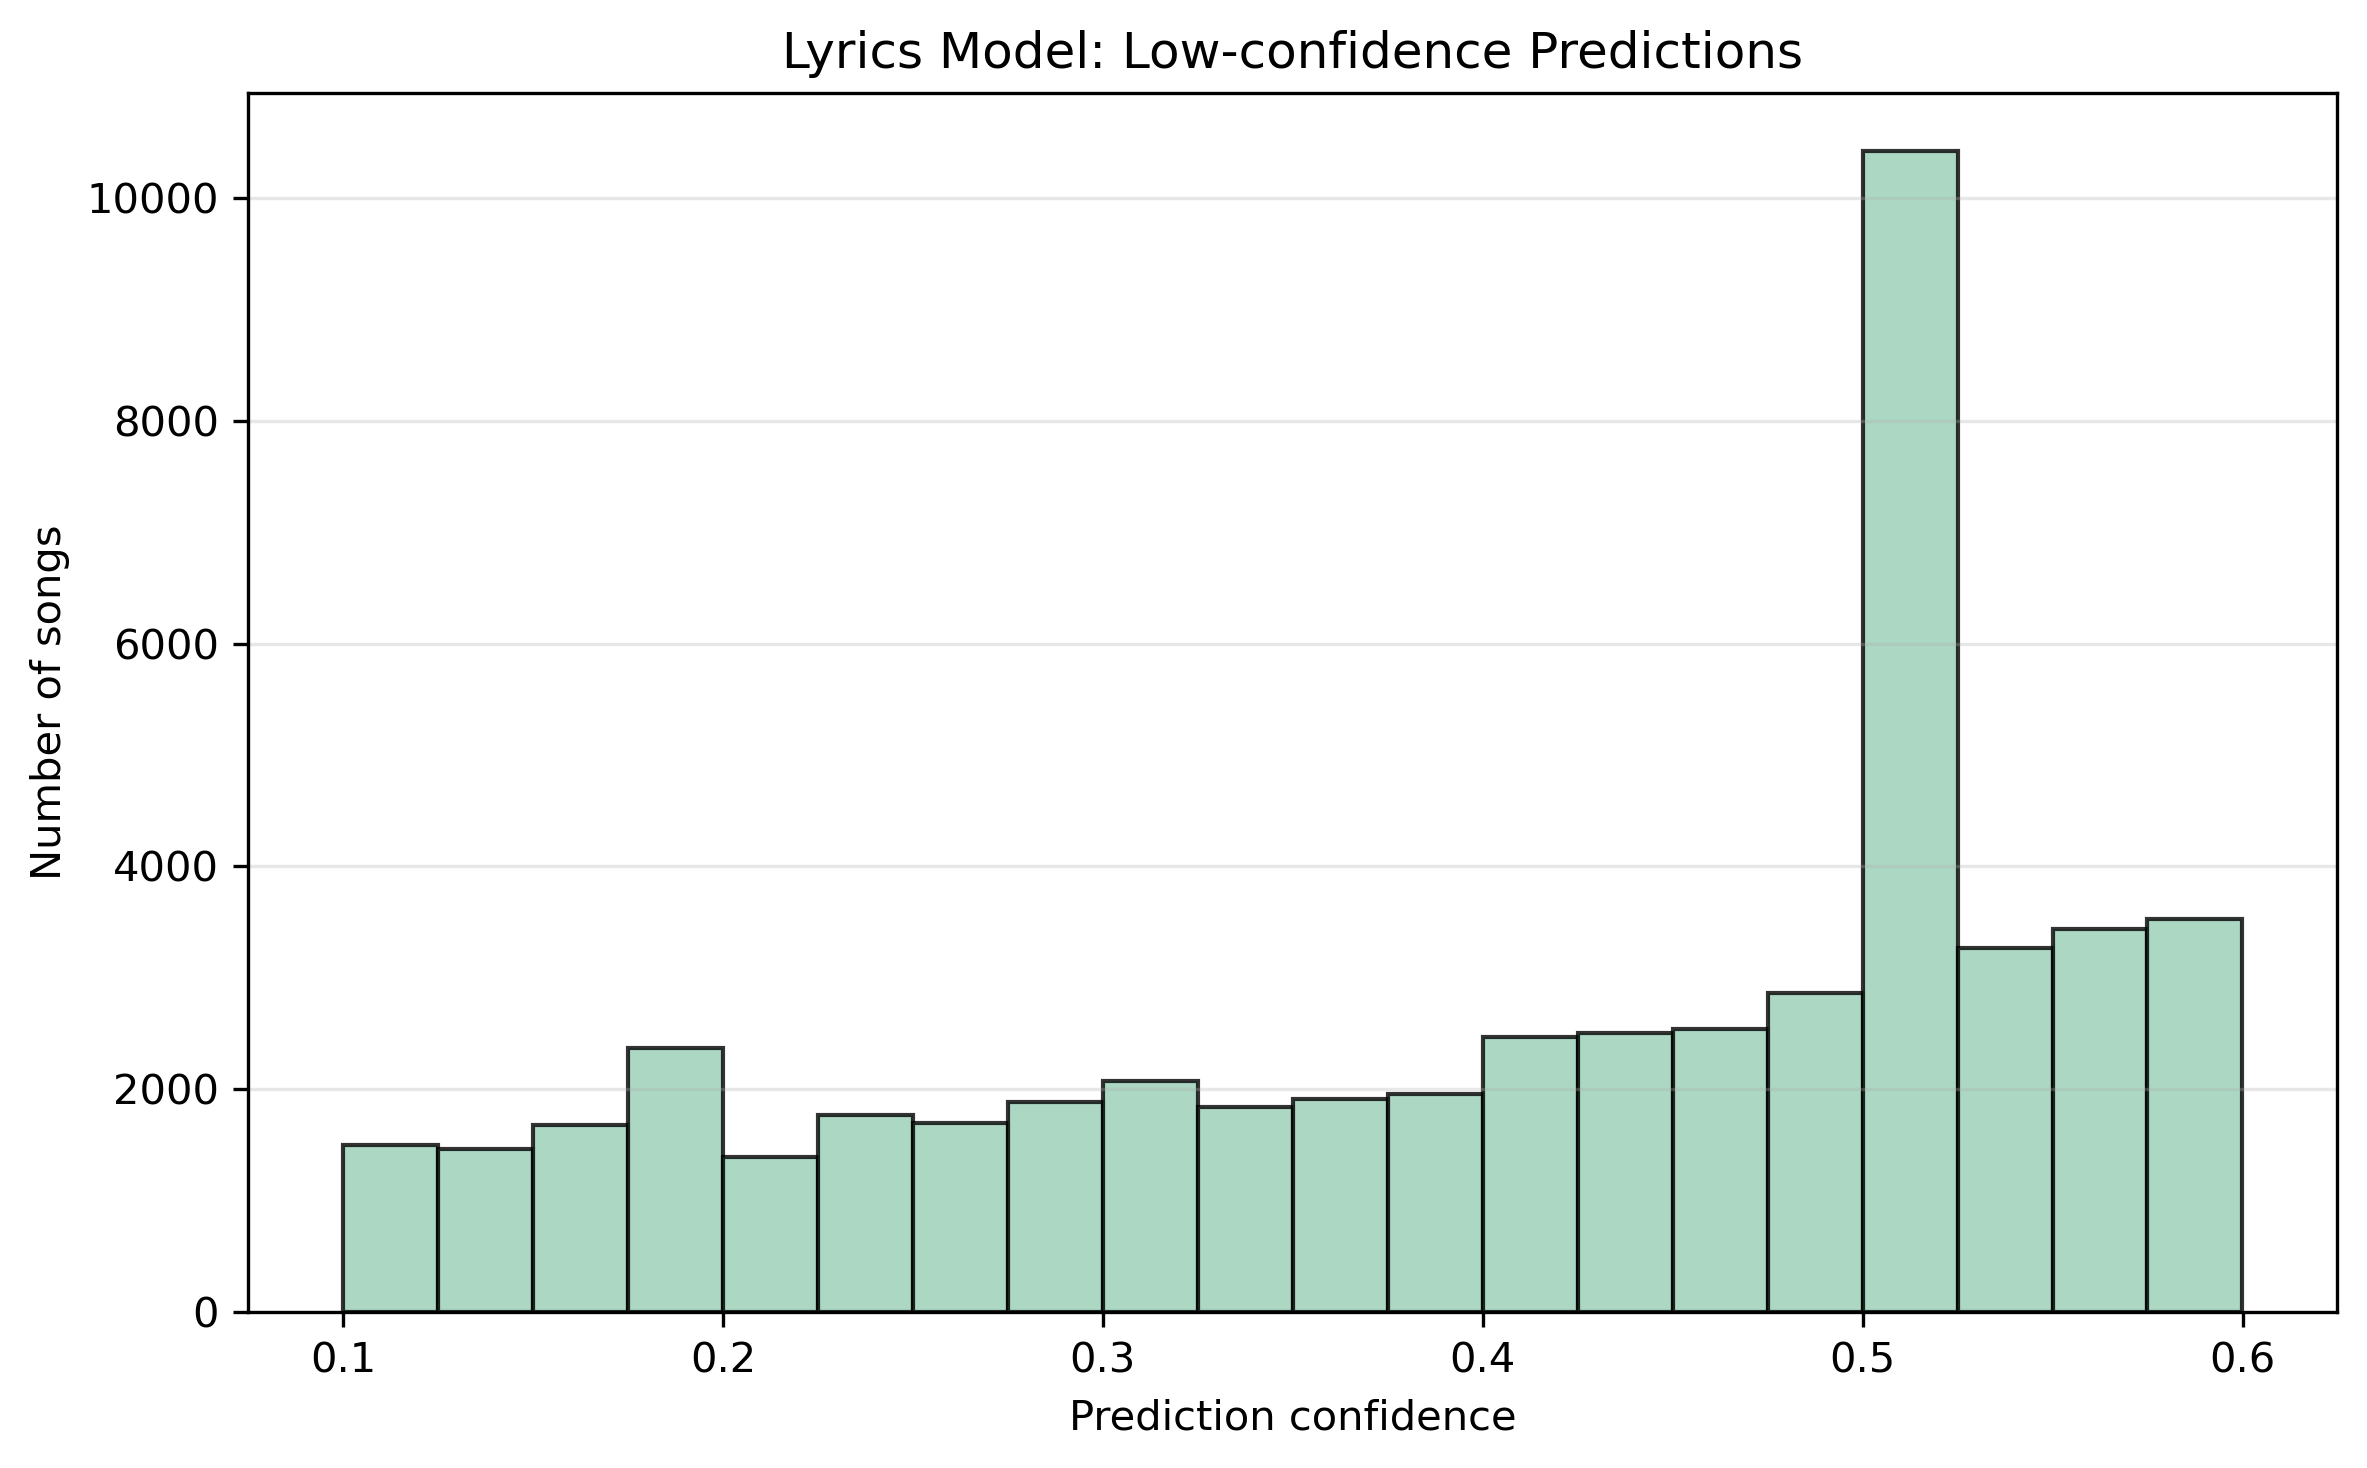
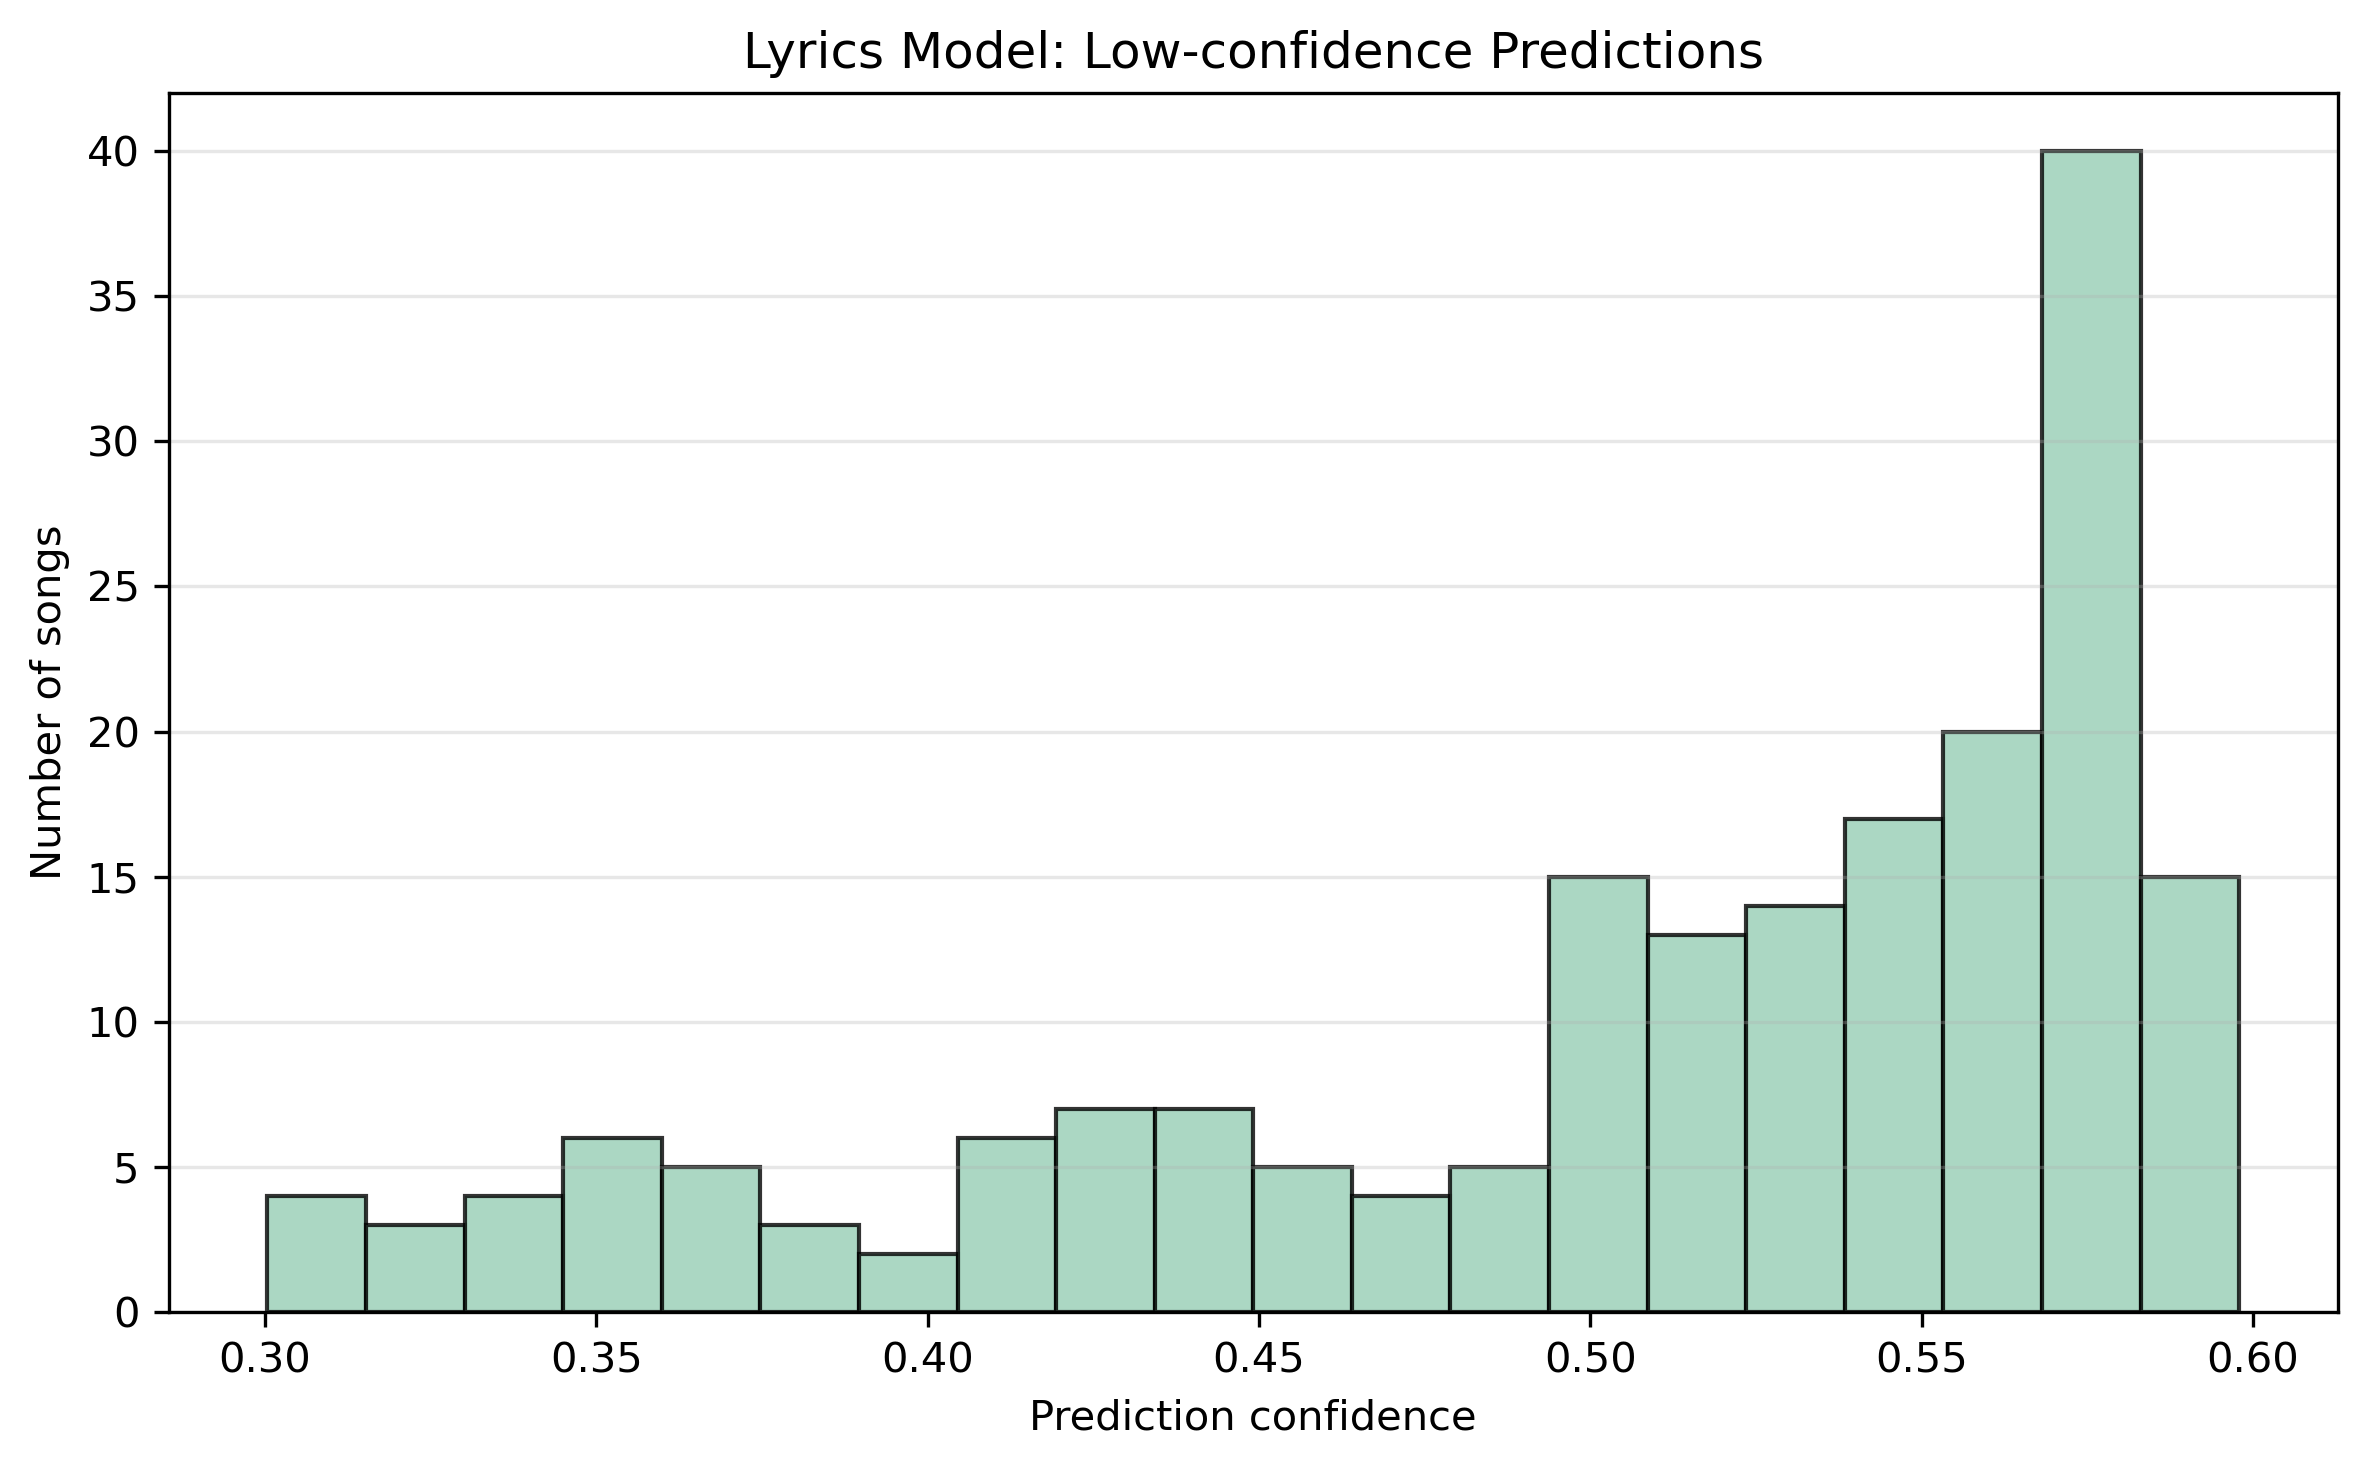
fixes
threshold adjustments and test mode added.
confidence calculation for fixes for chill
absolute path fixes

diff --git a/src/run_lyrics_comparison.py b/src/run_lyrics_comparison.py
@@ -43,10 +43,15 @@ MODEL_PATH = MODEL_DIR / "new_song_mood_model.joblib"  # Audio model from train_
 OUTPUT_PATH = DATA_DIR / "songs_with_predictions.csv"  # Output with both predictions
 
 # Uncertainty thresholds (tunable)
-AUDIO_LOW_CONF_THRESHOLD = 0.6
-# “Borderline” = top1 and top2 are closer than this margin
+# Based on analysis: mean confidence is ~0.403, median is ~0.402
+# Threshold at 0.35 flags ~25% of predictions as low-confidence (those below 25th percentile)
+AUDIO_LOW_CONF_THRESHOLD = 0.35  # Adjusted to match actual confidence distribution
+# "Borderline" = top1 and top2 are closer than this margin
 AUDIO_BORDERLINE_MARGIN = 0.15
-LYRICS_LOW_CONF_THRESHOLD = 0.6
+LYRICS_LOW_CONF_THRESHOLD = 0.6  # Lyrics model has higher confidence, this threshold is appropriate
+
+# TEST MODE: Set to a number to limit dataset size for quick testing (None = use all data)
+TEST_MAX_SONGS = 5000  # Change to None when ready for full run
 
 
 def load_audio_model(model_path):
@@ -225,8 +230,14 @@ def main():
         print("You may need to download it from Google Drive (as mentioned by Nadine).")
         return
     
-    df = pd.read_csv(DATASET_PATH)
-    print(f"✓ Loaded {len(df)} songs from dataset")
+    # TEST MODE: Only read first N rows for quick testing
+    if TEST_MAX_SONGS is not None:
+        print(f"⚠  TEST MODE: Loading only first {TEST_MAX_SONGS} songs...")
+        df = pd.read_csv(DATASET_PATH, nrows=TEST_MAX_SONGS)
+        print(f"✓ Loaded {len(df)} songs from dataset (TEST MODE)")
+    else:
+        df = pd.read_csv(DATASET_PATH)
+        print(f"✓ Loaded {len(df)} songs from dataset")
     print(f"Columns: {list(df.columns)}")
     print()
     
@@ -270,7 +281,7 @@ def main():
     print("Processing all songs with lyrics...")
     print()
     
-    df_with_lyrics = get_lyrics_predictions(df, max_songs=None)  # Process all songs
+    df_with_lyrics = get_lyrics_predictions(df, max_songs=TEST_MAX_SONGS)  # Use TEST_MAX_SONGS if set
     
     if df_with_lyrics is None:
         print("ERROR: Could not get lyrics predictions.")

diff --git a/src/lyrics_classifier_free.py b/src/lyrics_classifier_free.py
@@ -60,7 +60,8 @@ class FreeLyricsClassifier:
         elif compound > 0.1:
             # Slightly positive = chill
             mood = 'chill'
-            confidence = abs(compound)
+            # Boost confidence: chill is a valid mood, not just uncertainty
+            confidence = 0.5 + (compound - 0.1) * 0.625  # Scale to 0.5-0.75 range
         elif compound < -0.5:
             # Very negative = sad
             mood = 'sad'
@@ -69,13 +70,15 @@ class FreeLyricsClassifier:
             # Slightly negative = could be sad or chill
             if abs(compound) > 0.3:
                 mood = 'sad'
+                confidence = abs(compound)
             else:
                 mood = 'chill'
-            confidence = abs(compound)
+                # Boost confidence for near-neutral chill
+                confidence = 0.55 + (0.3 - abs(compound)) * 0.5  # Scale to 0.55-0.7 range
         else:
             # Neutral = chill
             mood = 'chill'
-            confidence = 0.5
+            confidence = 0.65  # Neutral songs are confidently "chill"
         
         # Check for "hyped" keywords (energy-related words)
         lyrics_lower = str(lyrics).lower()

diff --git a/src/enhanced_visualizations.py b/src/enhanced_visualizations.py
@@ -29,10 +29,12 @@ except ImportError:
 sys.path.append(str(Path(__file__).parent))
 from audio_data import load_audio_data, TARGETS, FEATURE_WISHLIST
 
-FIG_DIR = Path("figures")
+# Resolve paths relative to project root (parent of src directory)
+BASE = Path(__file__).resolve().parents[1]
+FIG_DIR = BASE / "figures"
 FIG_DIR.mkdir(parents=True, exist_ok=True)
 
-MODEL_PATH = Path("models/new_song_mood_model.joblib")
+MODEL_PATH = BASE / "models" / "new_song_mood_model.joblib"
 
 
 # 3a. Confidence distributions - separate files

diff --git a/src/audio_data.py b/src/audio_data.py
@@ -3,7 +3,9 @@ from pathlib import Path
 import pandas as pd
 from sklearn.model_selection import train_test_split
 
-PROCESSED = Path("data/processed/songs_mapped.csv")
+# Resolve path relative to project root (parent of src directory)
+BASE = Path(__file__).resolve().parents[1]
+PROCESSED = BASE / "data" / "processed" / "songs_mapped.csv"
 RANDOM_STATE = 42
 
 TARGETS = ["happy", "chill", "sad", "hyped"]
